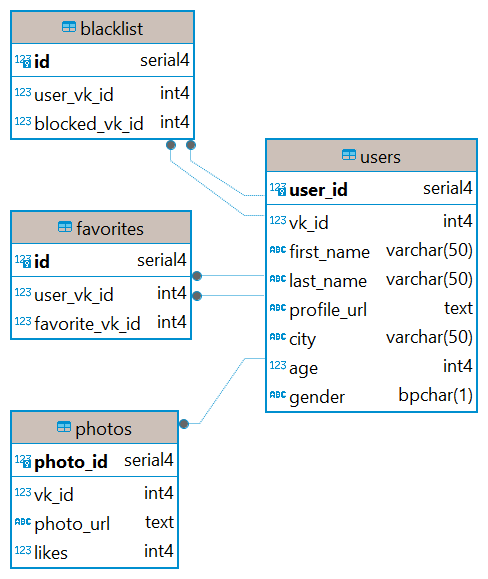
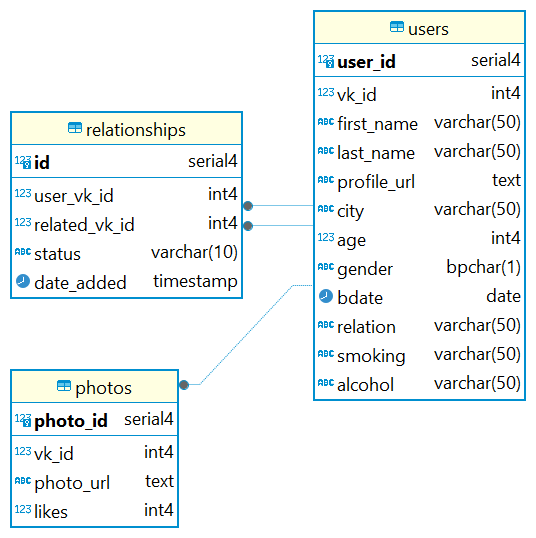
The database schema and models have been updated

Changed region(s): [[0.0, 0.0, 0.9836, 0.7435], [0.0, 0.684, 0.3996, 0.9814], [0.3996, 0.6543, 0.4303, 0.684]]

diff --git a/models.py b/models.py
@@ -1,9 +1,9 @@
-from sqlalchemy import create_engine, Column, Integer, String, Text, ForeignKey
+from sqlalchemy import create_engine, Column, Integer, String, Text, ForeignKey, CheckConstraint, TIMESTAMP, Date
 from sqlalchemy.ext.declarative import declarative_base
 from sqlalchemy.orm import relationship, sessionmaker
+import datetime
 
 Base = declarative_base()
-
 
 class User(Base):
     __tablename__ = 'users'
@@ -15,6 +15,10 @@ class User(Base):
     city = Column(String(50))
     age = Column(Integer)
     gender = Column(String(1))
+    bdate = Column(Date)
+    relation = Column(String(50))
+    smoking = Column(String(50))
+    alcohol = Column(String(50))
 
 
 class Photo(Base):
@@ -26,23 +30,19 @@ class Photo(Base):
     user = relationship("User")
 
 
-class Favorite(Base):
-    __tablename__ = 'favorites'
+class Relationship(Base):
+    __tablename__ = 'relationships'
     id = Column(Integer, primary_key=True)
     user_vk_id = Column(Integer, ForeignKey('users.vk_id'), nullable=False)
-    favorite_vk_id = Column(Integer, ForeignKey('users.vk_id'), nullable=False)
+    related_vk_id = Column(Integer, ForeignKey('users.vk_id'), nullable=False)
+    status = Column(String(10), nullable=False)
+    date_added = Column(TIMESTAMP, default=datetime.datetime.utcnow)
     user = relationship("User", foreign_keys=[user_vk_id])
-    favorite_user = relationship("User", foreign_keys=[favorite_vk_id])
+    related_user = relationship("User", foreign_keys=[related_vk_id])
 
-
-class Blacklist(Base):
-    __tablename__ = 'blacklist'
-    id = Column(Integer, primary_key=True)
-    user_vk_id = Column(Integer, ForeignKey('users.vk_id'), nullable=False)
-    blocked_vk_id = Column(Integer, ForeignKey('users.vk_id'), nullable=False)
-    user = relationship("User", foreign_keys=[user_vk_id])
-    blocked_user = relationship("User", foreign_keys=[blocked_vk_id])
-
+    __table_args__ = (
+        CheckConstraint(status.in_(['favorite', 'blacklisted']), name='status_check'),
+    )
 
 # Подключение к базе данных
 engine = create_engine('postgresql://your_username:your_password@localhost:5432/vkinder_db')
@@ -51,3 +51,4 @@ Base.metadata.create_all(engine)
 # Создание сессии для взаимодействия с БД
 Session = sessionmaker(bind=engine)
 session = Session()
+
